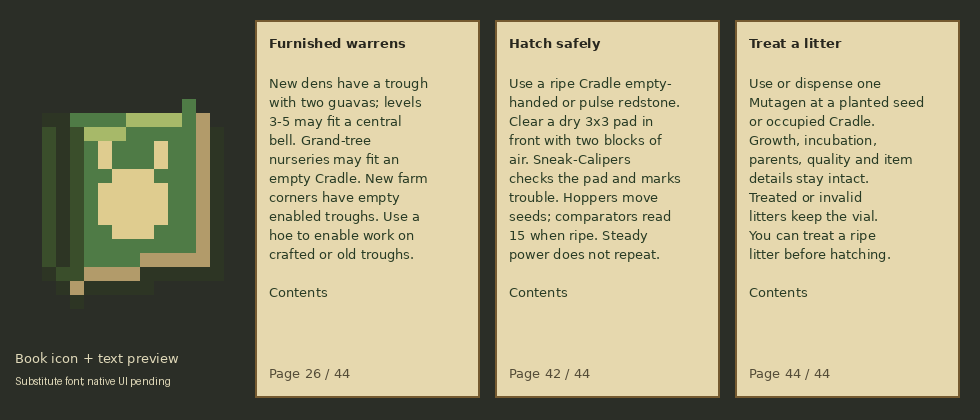
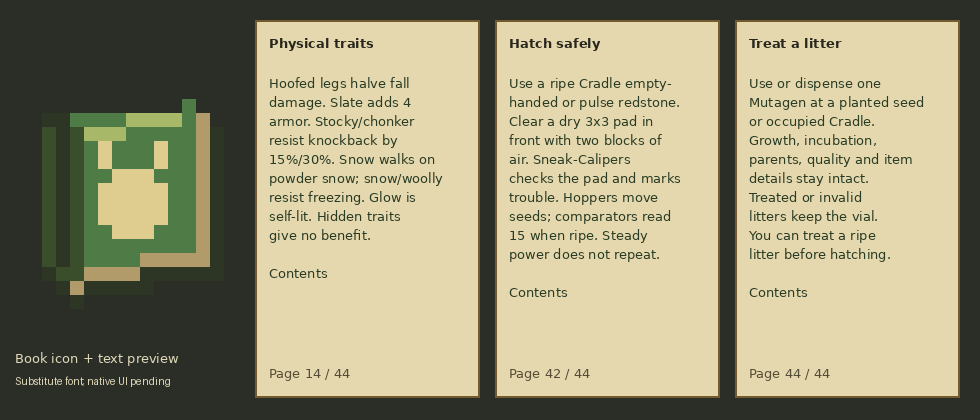
Give expressed snow coats native powder-snow footing

Changed region(s): [[0.2755, 0.1857, 0.4592, 0.7119], [0.2755, 0.0929, 0.4286, 0.1238], [0.3061, 0.8667, 0.3367, 0.8976]]

diff --git a/tools/gametest/java/com/bunnidogs/mod/entity/AdaptationsGameTest.java b/tools/gametest/java/com/bunnidogs/mod/entity/AdaptationsGameTest.java
@@ -12,6 +12,7 @@ import net.minecraft.server.level.ServerLevel;
 import net.minecraft.world.effect.MobEffectInstance;
 import net.minecraft.world.effect.MobEffects;
 import net.minecraft.world.entity.ai.attributes.Attributes;
+import net.minecraft.world.entity.ai.goal.ClimbOnTopOfPowderSnowGoal;
 import net.minecraft.world.entity.EntitySpawnReason;
 import net.minecraft.world.entity.MoverType;
 import net.minecraft.world.level.block.Blocks;
@@ -33,6 +34,7 @@ public final class AdaptationsGameTest {
     }
     public static void run(GameTestHelper h) {
         terrain(h);
+        snowFooting(h);
         var level = h.getLevel();
         var normal = dog(h,Genome.DEFAULT,1);
         var ember = dog(h,with(Gene.COAT,"ember"),2);
@@ -135,6 +137,35 @@ public final class AdaptationsGameTest {
     private static final class TerrainProbe extends Bunnidog {
         TerrainProbe(ServerLevel level) { super(ModEntities.BUNNIDOG.get(),level); this.setNoAi(true); this.setAge(0); }
         float speedFactor() { return this.getBlockSpeedFactor(); }
+    }
+    private static void snowFooting(GameTestHelper h) {
+        var level = h.getLevel();
+        var snow = h.absolutePos(new BlockPos(2,1,5));
+        level.setBlock(snow,Blocks.POWDER_SNOW.defaultBlockState(),2);
+        var top = Vec3.atBottomCenterOf(snow.above());
+        var probe = new TerrainProbe(level);
+        var hidden = with(Gene.COAT,"ember").with(Gene.COAT,1,Gene.COAT.alleleNamed("snow").id());
+        for (var genome : new Genome[]{Genome.DEFAULT,with(Gene.BUILD,"woolly"),hidden,with(Gene.COAT,"snow")}) {
+            probe.setGenome(genome); probe.setPos(top); probe.fallDistance = 0;
+            probe.move(MoverType.SELF,new Vec3(0,-.5,0));
+            boolean footed = genome.equals(with(Gene.COAT,"snow"));
+            h.assertTrue(Math.abs(probe.getY()-(footed ? top.y : top.y-.5)) < .001,
+                    "Only expressed snow may acquire native surface footing; woolly and hidden snow still sink");
+        }
+        probe.setShiftKeyDown(true); probe.setPos(top); probe.fallDistance = 0;
+        probe.move(MoverType.SELF,new Vec3(0,-.5,0));
+        h.assertTrue(probe.getY() < top.y-.4,"Snow footing must retain the native descending exception");
+        probe.setShiftKeyDown(false); probe.setPos(top.add(0,-.25,0)); probe.fallDistance = 0;
+        probe.move(MoverType.SELF,new Vec3(0,-.25,0));
+        h.assertTrue(probe.getY() < top.y-.4,"Snow footing must not create a collision floor inside powder snow");
+        probe.isInPowderSnow = true;
+        var escape = new ClimbOnTopOfPowderSnowGoal(probe,level);
+        h.assertTrue(escape.canUse(),"Expressed snow must also qualify for the native powder-snow escape goal");
+        probe.setGenome(Genome.DEFAULT);
+        h.assertTrue(!escape.canUse(),"Changing expression must remove snow escape eligibility immediately");
+        probe.setPos(top); probe.fallDistance = 0; probe.move(MoverType.SELF,new Vec3(0,-.5,0));
+        h.assertTrue(probe.getY() < top.y-.4,"Changing expression must immediately restore ordinary snow collision");
+        level.setBlock(snow,Blocks.AIR.defaultBlockState(),2);
     }
     private static void terrain(GameTestHelper h) {
         var level = h.getLevel();

diff --git a/art/gen_guide.py b/art/gen_guide.py
@@ -17,7 +17,7 @@ PAGES = {
     11: ('Gentle sampling', 'Use a Sampling Syringe on an animal at half health or better. It yields one Tissue Sample without harm; recovery takes five minutes. Sneak-use Calipers for care readiness and timers.'),
     12: ('Wool and whiskers', 'Shear a healthy woolly adult for two wool in coat colors. Brush adults at Senses +10 for one whisker. Each needs ten minutes of recovery. Tools wear once; pups yield neither.'),
     13: ('Useful coats', 'Expressed ember resists fire and lava; moss prevents Poison; sand prevents cactus damage; void prevents Levitation. Hidden copies give no protection. Other dangers still matter.'),
-    14: ('Physical traits', 'Hoofed legs halve fall damage. Slate coats add 4 armor. Stocky/chonker builds resist knockback by 15%/30%. Snow/woolly resist freezing. A glow coat is self-lit; hidden copies give no benefit.'),
+    14: ('Physical traits', 'Hoofed legs halve fall damage. Slate adds 4 armor. Stocky/chonker resist knockback by 15%/30%. Snow walks on powder snow; snow/woolly resist freezing. Glow is self-lit. Hidden traits give no benefit.'),
     15: ('Laboratory', 'Put two Tissue Samples on a Genetics Table. Read the source sheets, pup forecast, copy odds and splice plans. Hidden copies count. Reading never spends samples.'),
     16: ('Gene Splicer', 'Sneak-use to select a gene. Hold a donor sample in the other hand and carry Mutagen. Use on a healthy adult: one donor copy enters that gene. Costs one sample, Mutagen and tool use.'),
     17: ('Stable lines', 'Register stable bred adults with matching copies in all seven genes and recorded parents. Use the Registry on an animal, or sneak-use with its filled basket in the other hand. Keeps 24 distinct lines.'),
@@ -99,7 +99,7 @@ def main():
         bold = ImageFont.truetype('DejaVuSans-Bold.ttf',13)
     except OSError:
         font = bold = ImageFont.load_default()
-    for x,page in [(255,26),(495,42),(735,44)]:
+    for x,page in [(255,14),(495,42),(735,44)]:
         d.rectangle((x,20,x+224,397),fill=(230,216,174),outline=(117,90,48),width=2)
         title = 'Bunnidogs Guide' if page == 1 else 'More chapters' if page == 40 else PAGES[page][0]
         d.text((x+14,35),title,font=bold,fill=(40,39,30))

diff --git a/src/main/java/com/bunnidogs/mod/entity/Bunnidog.java b/src/main/java/com/bunnidogs/mod/entity/Bunnidog.java
@@ -59,6 +59,8 @@ import net.minecraft.world.InteractionResult;
 import net.minecraft.world.damagesource.DamageSource;
 import net.minecraft.world.damagesource.DamageTypes;
 import net.minecraft.tags.DamageTypeTags;
+import net.minecraft.tags.EntityTypeTags;
+import net.minecraft.tags.TagKey;
 import net.minecraft.world.effect.MobEffectInstance;
 import net.minecraft.world.effect.MobEffects;
 import net.minecraft.world.item.Items;
@@ -74,6 +76,7 @@ import net.minecraft.world.entity.ai.attributes.AttributeSupplier;
 import net.minecraft.world.entity.ai.attributes.Attributes;
 import net.minecraft.world.entity.ai.goal.AvoidEntityGoal;
 import net.minecraft.world.entity.ai.goal.BreedGoal;
+import net.minecraft.world.entity.ai.goal.ClimbOnTopOfPowderSnowGoal;
 import net.minecraft.world.entity.ai.goal.FloatGoal;
 import net.minecraft.world.entity.ai.goal.FollowParentGoal;
 import net.minecraft.world.entity.ai.goal.LookAtPlayerGoal;
@@ -700,6 +703,12 @@ public class Bunnidog extends Animal implements net.neoforged.neoforge.common.IS
     public boolean canFreeze() {
         return super.canFreeze() && (this.entityData == null || !Adaptations.coldProof(this.genome()));
     }
+    /** Native snow collision and escape queries may vary per expressed animal, not just per entity type. */
+    @Override
+    public boolean is(TagKey<EntityType<?>> tag) {
+        return super.is(tag) || tag.equals(EntityTypeTags.POWDER_SNOW_WALKABLE_MOBS)
+                && this.entityData != null && Adaptations.snowFooted(this.genome());
+    }
     @Override
     public boolean canBeAffected(MobEffectInstance effect) {
         if (!super.canBeAffected(effect)) return false;
@@ -835,6 +844,7 @@ public class Bunnidog extends Animal implements net.neoforged.neoforge.common.IS
     @Override
     protected void registerGoals() {
         this.goalSelector.addGoal(0, new FloatGoal(this));
+        this.goalSelector.addGoal(0, new ClimbOnTopOfPowderSnowGoal(this,this.level()));
         // Everyone flees when hurt, except feral ones, who fight back instead.
         this.goalSelector.addGoal(1, new PanicGoal(this, 1.5D) {
             @Override

diff --git a/src/main/java/com/bunnidogs/mod/genetics/Adaptations.java b/src/main/java/com/bunnidogs/mod/genetics/Adaptations.java
@@ -7,6 +7,7 @@ public final class Adaptations {
     public static boolean coldProof(Genome genome) {
         return genome.expressed(Gene.COAT).name().equals("snow") || genome.expressed(Gene.BUILD).name().equals("woolly");
     }
+    public static boolean snowFooted(Genome genome) { return genome.expressed(Gene.COAT).name().equals("snow"); }
     public static float fallMultiplier(Genome genome) { return genome.expressed(Gene.LEGS).name().equals("hoofed") ? .5F : 1F; }
     public static boolean poisonProof(Genome genome) { return genome.expressed(Gene.COAT).name().equals("moss"); }
     public static boolean cactusProof(Genome genome) { return genome.expressed(Gene.COAT).name().equals("sand"); }
@@ -27,7 +28,7 @@ public final class Adaptations {
         if (gene == Gene.BUILD && allele.name().equals("woolly"))
             return "Does not freeze in powder snow. Healthy adults yield two wool in their expressed coat's palette with shears every ten minutes.";
         if (gene == Gene.COAT && allele.name().equals("snow"))
-            return "Does not freeze in powder snow.";
+            return "Does not freeze in powder snow. Walks on its surface and can climb out; descending and long falls retain native snow collision rules.";
         if (gene == Gene.COAT && allele.name().equals("moss")) return "Immune to poison, but not wither or other magic.";
         if (gene == Gene.COAT && allele.name().equals("sand")) return "Immune to cactus damage; other thorns still hurt.";
         if (gene == Gene.COAT && allele.name().equals("void")) return "Immune to levitation; shulker impacts and falls still hurt.";

diff --git a/START_HERE.md b/START_HERE.md
@@ -20,7 +20,14 @@ is not exposed in this session: use available work budget without inventing quot
 Reported percentages are sustained-run targets, including 100%; continue across
 checkpoints/compaction and reserve only the capacity needed to deliver safely.
 
-## Latest gameplay work — 2026-10-17
+## Latest gameplay work — 2026-10-18
+
+- **A5, snow footing:** expressed snow coats use native powder-snow surface
+  collision and escape jumping. Woolly keeps freezing protection without
+  footing, hidden snow gains none, and gene edits update immediately. Native
+  descending/inside-snow rules and conservative home routes remain. Actual
+  build/all 38 server cases pass; guide preview inspected. See
+  `docs/CARE_SPECS.md` A5.
 
 - **N7, grand-tree nurseries:** new level-five halls may fit an empty Cradle
   in an old hay station's footprint with a complete hatch pad. Its fit also
@@ -125,7 +132,7 @@ lineage food tables and shares the guide pool. See `docs/FIELD_GUIDE.md`.
 | Gene Splicer | One donor expressed copy, chosen gene, sample/Mutagen/tool cost, recipient recovery; breeding fixes pairs. `docs/SPLICER_SPECS.md` |
 | Registry and shows | Distinct stable bred lines, linked snapshots, balanced-stat bronze/silver/gold judging, per-animal awards, ribbons and Champion Line. `docs/REGISTRY_SPECS.md`, `docs/SHOW_SPECS.md` |
 | Care | Live samples, fleece palettes, whiskers/dust/moss, dispenser care, saved recoveries and sneak-Calipers home/food/care/work status. `docs/CARE_SPECS.md` C1–C9 |
-| Adaptations | Expressed fire/cold/fall/Poison/cactus/Levitation benefits, slate armor, heavy-build knockback resistance, self-lit glow and terrain movement. `docs/CARE_SPECS.md` A1–A4 |
+| Adaptations | Expressed fire/cold/fall/Poison/cactus/Levitation benefits, slate armor, heavy-build knockback resistance, self-lit glow, terrain movement and snow footing. `docs/CARE_SPECS.md` A1–A5 |
 | Homes/travel | Claimable Nests, day tether/night return, floor Nests, native leads/rides, led-adult reassignment, Travel Baskets and persistent compass place markers. `docs/HOME_SPECS.md` H1–H7 |
 | Settlement life | Saved trough stock/automation/filters, diet healing/short night meals, bell visits, fitted furniture, harvest/cultivation/surplus composting, guava compost data, local stores, refuge and storm shelter. `docs/SETTLEMENT_LIFE.md` L1–L15 |
 | Warrens | Fitted dens/mouths/tunnels/cellars, landmark rooms, grand-tree hall/loop/lower commons, cave/Nether/End entrances and saved labels. `docs/WARREN_PLAN.md` U1–U8 |

diff --git a/docs/CARE_SPECS.md b/docs/CARE_SPECS.md
@@ -237,8 +237,9 @@ native equipment/tag protection and damage hooks still apply.
 
 `Plain.effect` explains these benefits on sheets and forecasts. Existing gene
 slots, allele IDs, inheritance, stat drift, juice effects, genome formats and
-body multipliers stay unchanged. Cold protection prevents freezing damage, not
-sinking in powder snow. Hoofed legs reduce falls rather than making them harmless.
+body multipliers stay unchanged. Woolly protection prevents freezing damage;
+A5 adds surface footing specifically to expressed snow coats. Hoofed legs
+reduce falls rather than making them harmless.
 
 A2 extends practical protection to swamp, desert and End coats. It follows
 ordinary expression: a moss/void animal expressing void remains vulnerable to
@@ -310,6 +311,26 @@ two loads preserving external bases and gene edits removing only their bonuses.
 Actual build and all nineteen server scenarios pass; guide preview inspected.
 Client movement feel, natural terrain travel and long-term balance remain
 gameplay review.
+
+## A5: powder-snow footing
+
+Expressed snow coats acquire native powder-snow surface collision, as native
+snow-walkable animals do. Woolly builds retain freezing protection without this
+footing; hidden snow copies gain neither coat benefit. The same per-animal
+native tag query enables Minecraft's powder-snow escape jump goal. Falling into
+snow, standing beneath its surface and descending retain native collision rules.
+This does not make falls safe or change the conservative domestic route checks.
+
+Only the native snow-walkable query gains the expressed benefit; ordinary data
+pack entity tags and equipment protections still apply. Gene edits take effect
+immediately on both sides, using the existing synced genome. No item, attribute,
+saved field, gene ID, network version or creature visual changes are required.
+
+A5 evidence (2026-10-18): actual Java 25 build/all 38 native scenarios pass.
+The existing adaptation case moves real native collisions for expressed/hidden
+snow, woolly, descending, already-inside snow and expression removal. Native
+escape-goal eligibility changes with expression. The physical-trait guide
+preview is inspected; natural snowy travel remains client gameplay review.
 
 ## Evidence and follow-up
 

diff --git a/docs/FIELD_GUIDE.md b/docs/FIELD_GUIDE.md
@@ -11,6 +11,8 @@ Living-dust care has its own page explaining combined yields and shared recovery
 That living-harvest page now includes moss coats at Bloom +10 yielding moss
 carpet alongside qualified whiskers/dust under one tool use and recovery.
 The terrain page explains inherited stepping and partial slow-block resistance.
+Physical traits also explains expressed snow coats walking on powder snow,
+beside snow/woolly freezing protection; A5 updates that page without renumbering.
 Shore fishing explains resident Fisher prey, needs, healing and recovery.
 Resident needs explains the Calipers home/food/recovery snapshot.
 Refuge explains non-feral residents' bounded response to visible threats.

diff --git a/docs/ROADMAP.md b/docs/ROADMAP.md
@@ -16,6 +16,11 @@ and mouths, **H3b** house floor Nests. V1a, V1b, H3 and H4 WORK.
 
 ## Latest implemented work (gameplay pending)
 
+A5 gives expressed snow coats native powder-snow footing and escape jumping.
+Hidden snow and woolly alone still sink; native descending/fall rules and safe
+domestic routes remain. Gene edits apply immediately. Build/all 38 server
+scenarios pass; physical-trait guide preview inspected. See `CARE_SPECS.md`.
+
 N7 fits optional empty Cradles into new level-five grand-tree halls, retaining
 their trough/bell, all floor Nests, routes, labels and old saved starts. The
 station reuses a bedding footprint; its complete pad is reserved during fitting.
